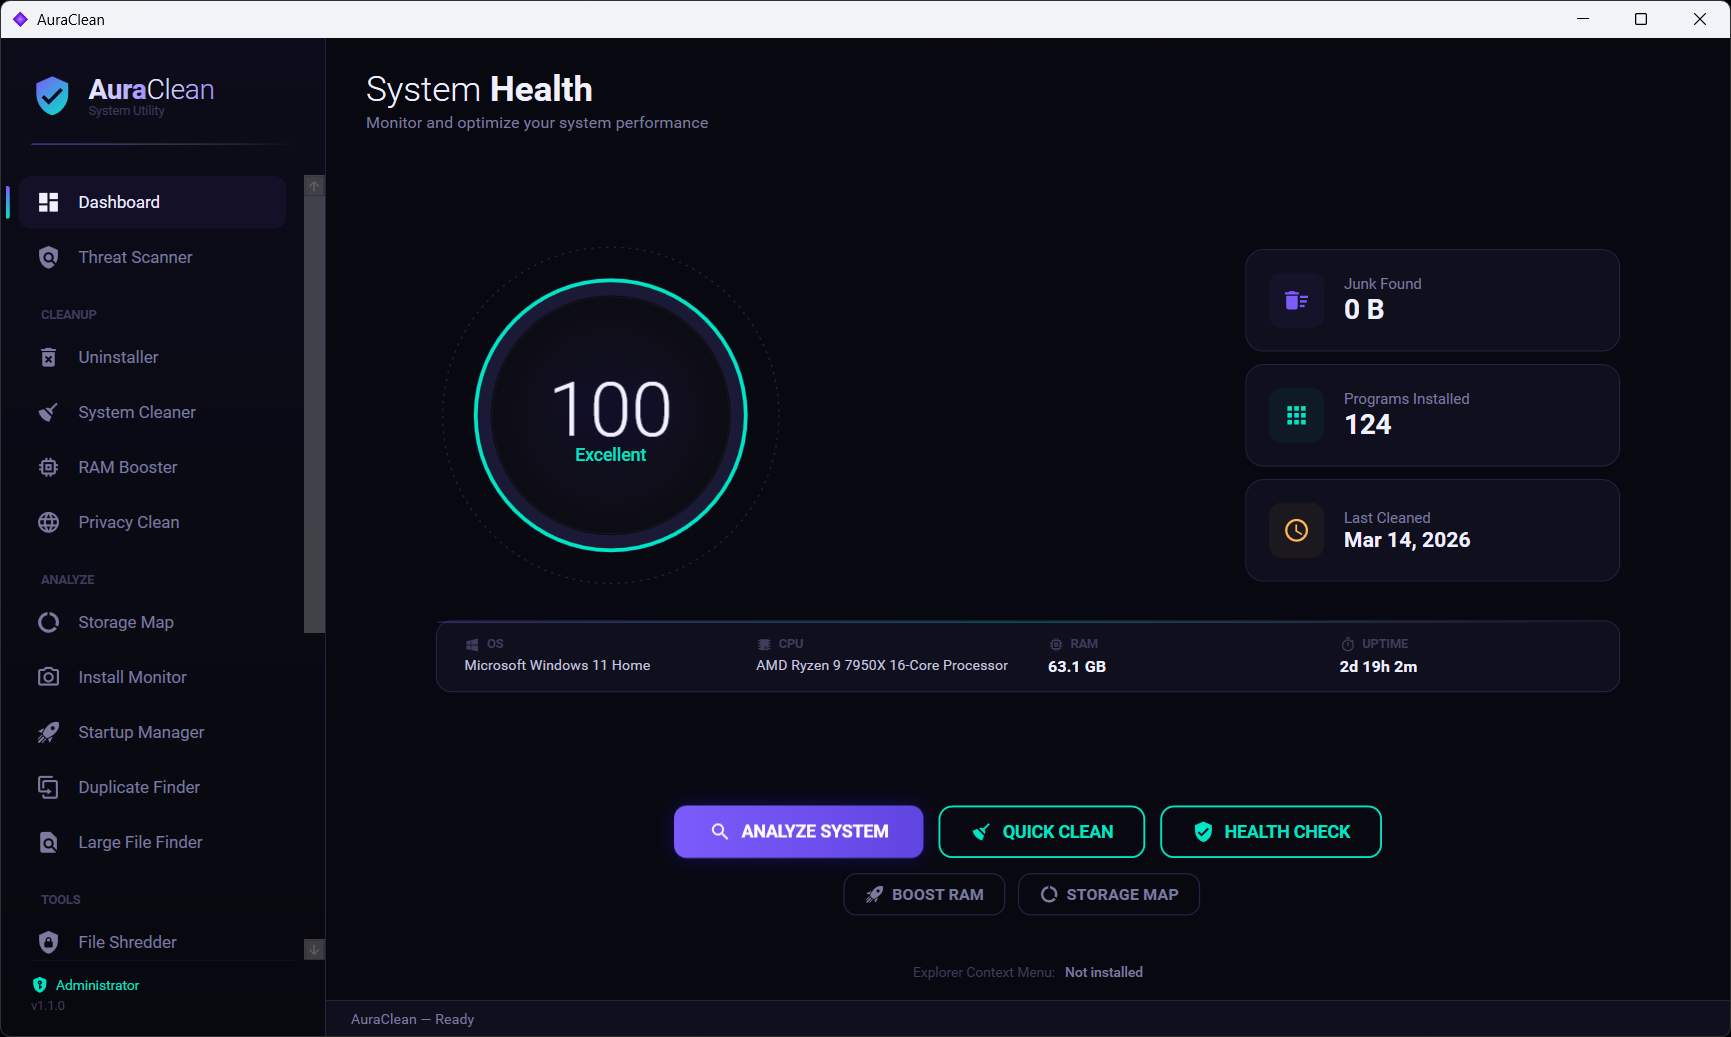
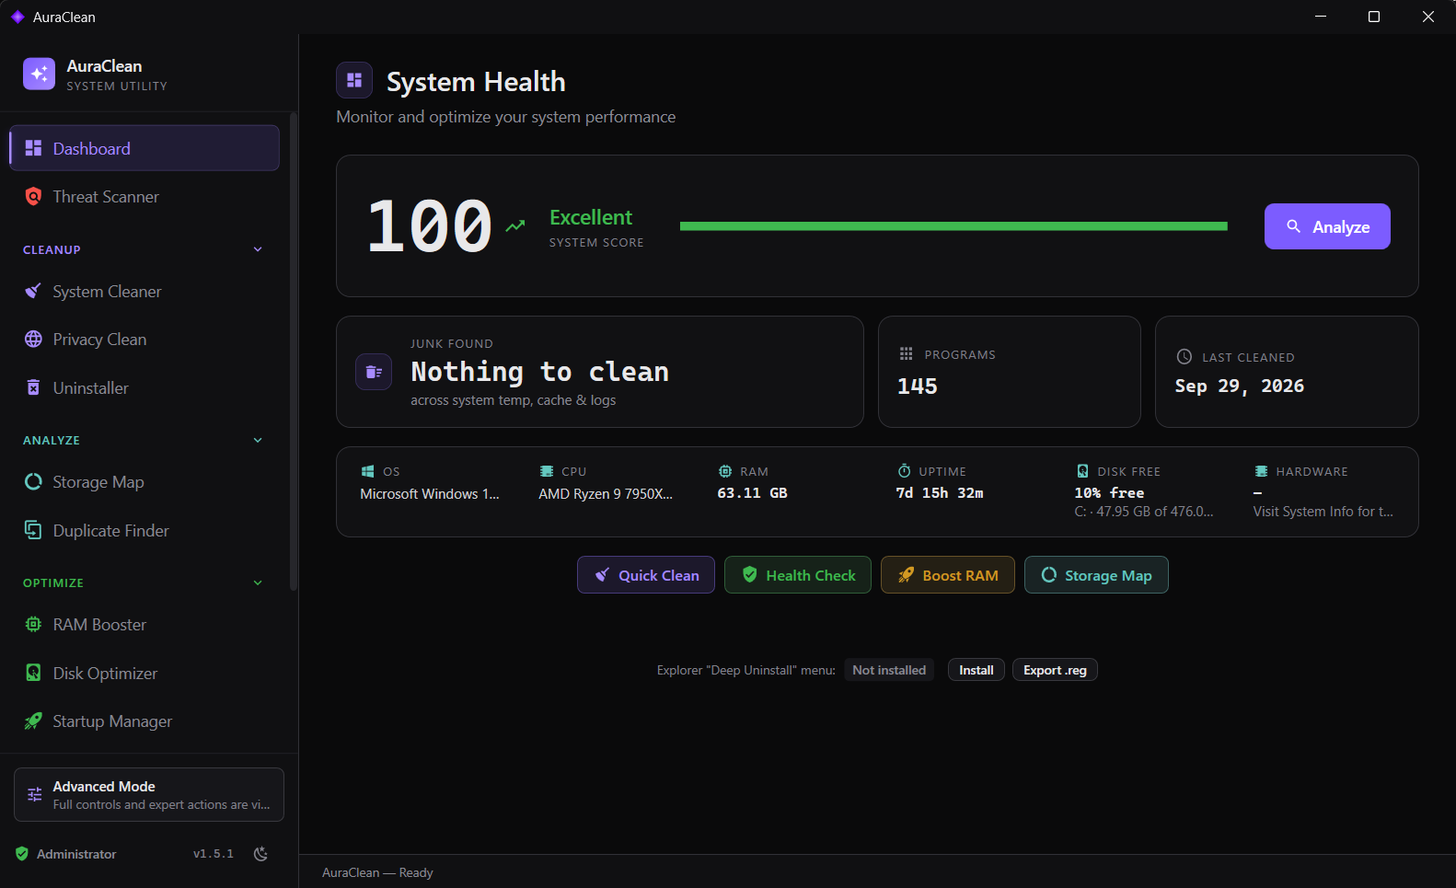
docs: refresh screenshots (dashboard, surgical uninstaller, system info)

diff --git a/README.md b/README.md
@@ -17,7 +17,8 @@
 ## Screenshots
 
 <div align="center">
-  <img src="docs/screenshot-dashboard.png" alt="Dashboard" width="%">
+  <img src="docs/screenshot-dashboard.png" alt="Dashboard — System Health" width="%">
+  <img src="docs/screenshot-uninstaller.png" alt="Surgical Uninstaller" width="%">
   <img src="docs/screenshot-systeminfo.png" alt="System Info" width="%">
 </div>
 
